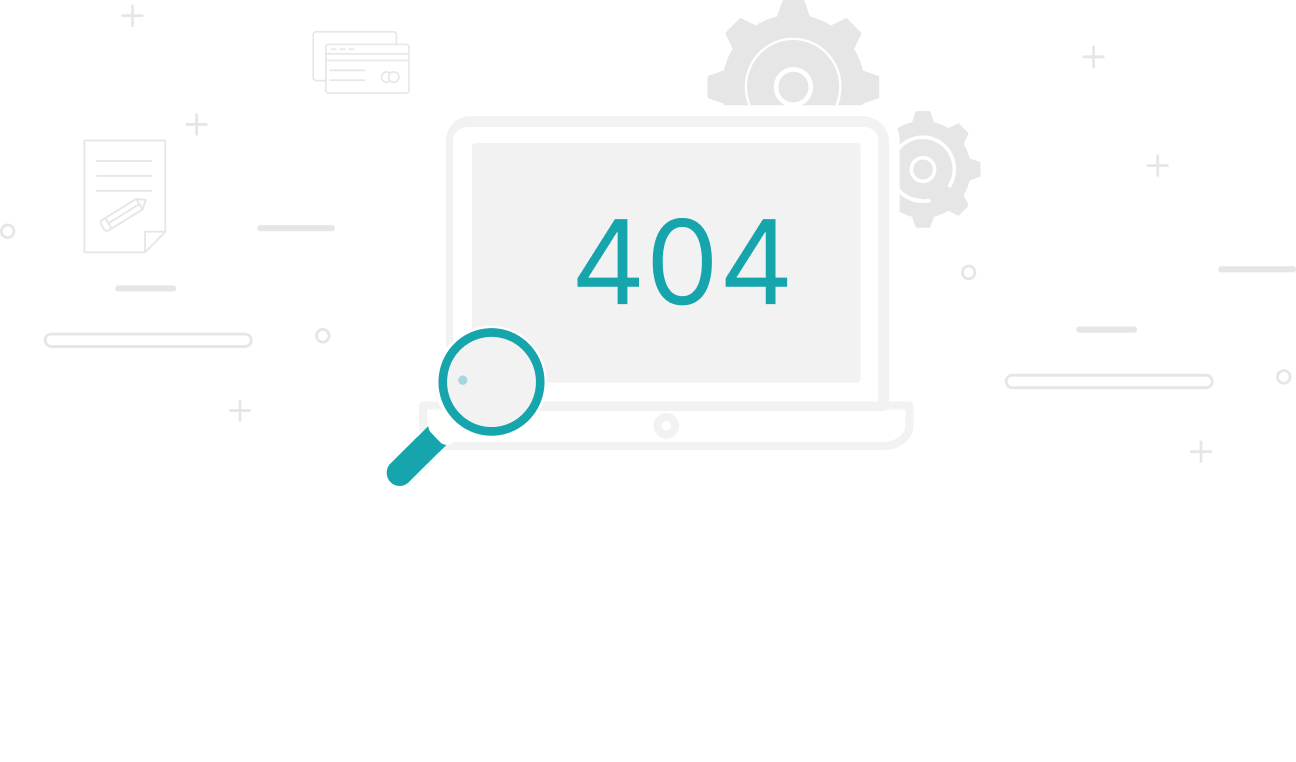
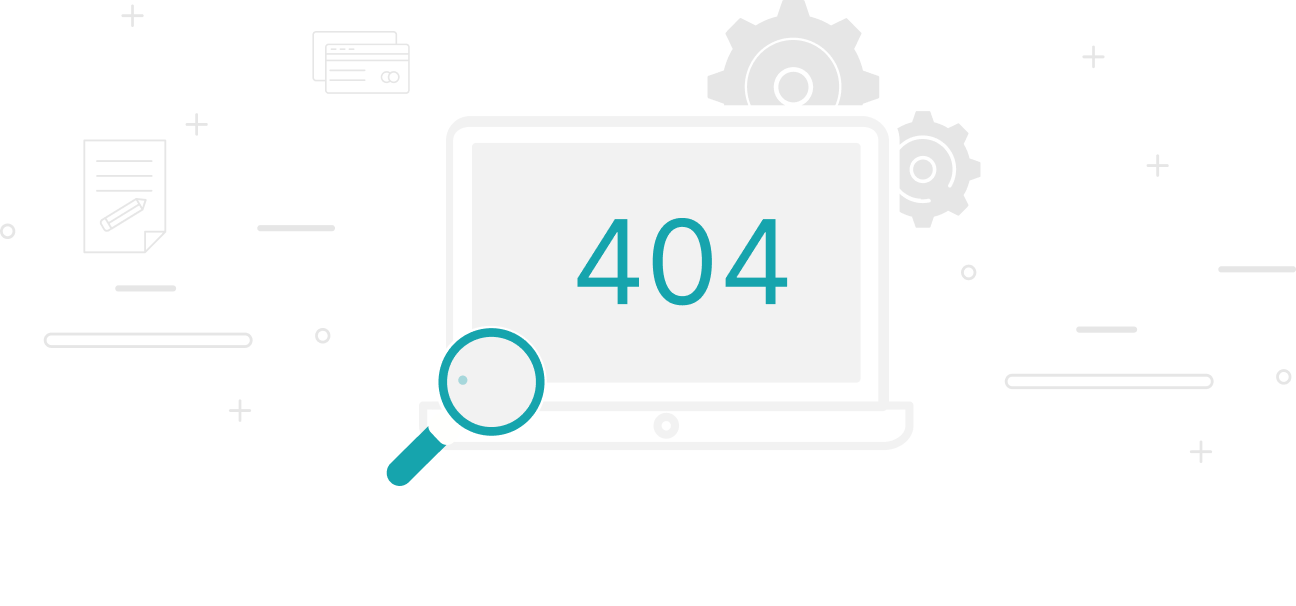
not found page update

diff --git a/src/components/notFound/NotFound.js b/src/components/notFound/NotFound.js
@@ -1,18 +1,18 @@
 import { Link } from 'react-router-dom';
-import image from '../../assets/images/not-found1.png';
+import image from '../../assets/images/not-found.png';
 import '../../assets/css/not-found.css';
 
 const NotFound = () => {
 
   return (
     <main>
-      <section className='not-found'>
+      <section className="not-found">
         <div className="container">
           <div className="row">
             <div className="col-md-12">
               <img src={image} alt="" />
               <div className="d-flex align-items-center justify-content-center">
-                <Link to="/">Back to Home</Link>
+                <Link to="/" className='btn-style'>Back to Home</Link>
               </div>
             </div>
           </div>
